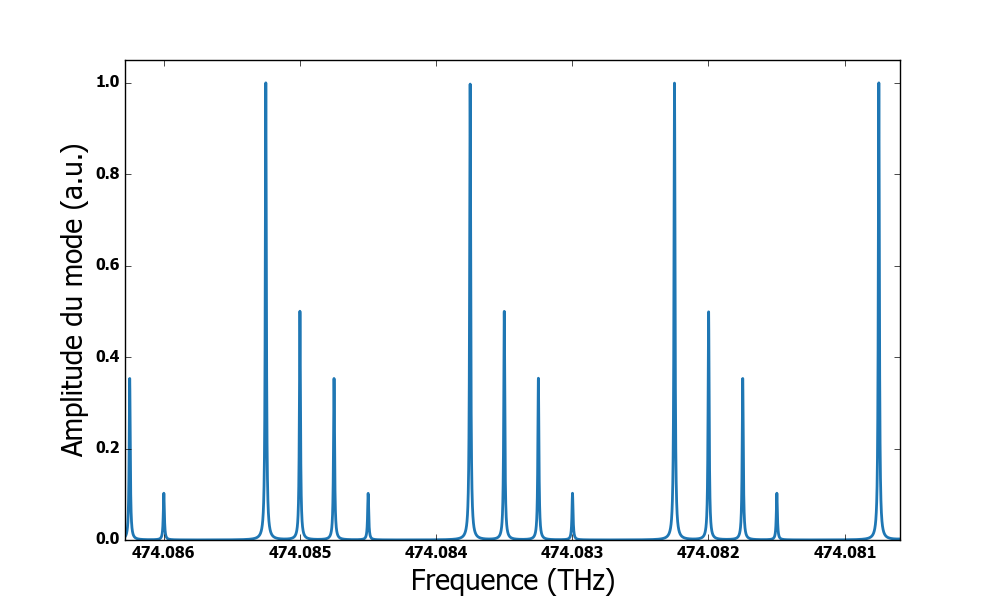
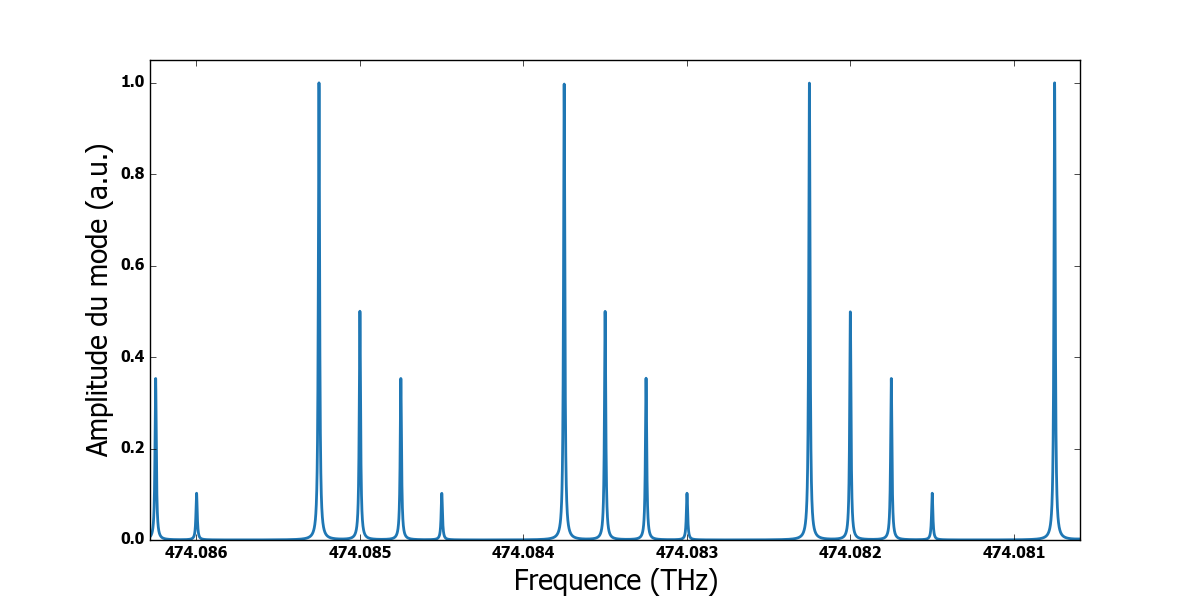
Changed mode amp

diff --git a/LaserPlasmaAcc/SimpleFigures.py b/LaserPlasmaAcc/SimpleFigures.py
@@ -134,7 +134,7 @@ for p_i in range(p_mid-p_lim, p_mid+p_lim):
                                                 *m.pow(2, -(n_i+m_i)/2)
 
 
-fig = plt.figure(1, figsize=(10, 6), dpi=80, facecolor='w', edgecolor='k')
+fig = plt.figure(1, figsize=(12, 6), dpi=80, facecolor='w', edgecolor='k')
 ax1 = fig.add_subplot(111)
 ax1.plot(f_array*1e-12, spectrum/max(spectrum), linewidth=2, color=tableau20[0])
 #cursor = Cursor(ax1, useblit=True, color='red', linewidth=1)
@@ -144,7 +144,8 @@ ax1.set_ylabel('Amplitude du mode (a.u.)', fontsize=20)
 ax1.set_ylim(0, 1.05)
 ax1.ticklabel_format(useOffset=False)
 ax1.set_xlim(fmin*1e-12, fmax*1e-12)
-plt.savefig(my_path + 'Mode Amplitude.png')
+#plt.show()
+plt.savefig(my_path + 'ModeAmplitude.png')
 
 
 #fig = plt.figure(1, figsize=(10,10), dpi=80, facecolor='w', edgecolor='k')
